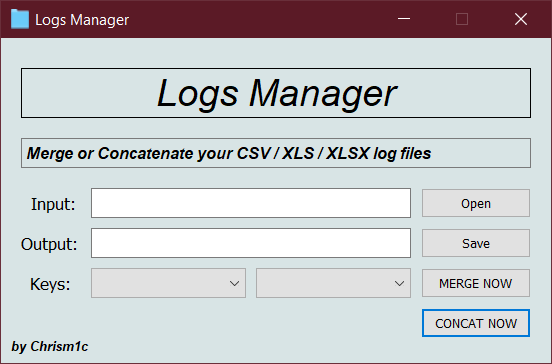
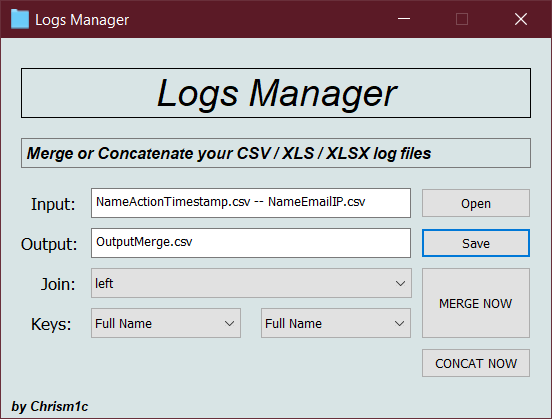
Aggiunto Multi join e batch files

diff --git a/src/gui_interface.py b/src/gui_interface.py
@@ -1,7 +1,7 @@
 from PyQt5 import QtWidgets, uic, QtCore, QtGui
 from PyQt5.QtWidgets import QFileDialog
 from src.code import concateneteLogs, mergeLogs, getHeaders, loadLogs, findExtension
-import os
+import os, sys
 
 
 class Ui(QtWidgets.QDialog):
@@ -46,6 +46,7 @@ class Ui(QtWidgets.QDialog):
 
         self.comboBox_leftKey.setToolTip('Key header from file 1')
         self.comboBox_rightKey.setToolTip('Key header from file 2')
+        self.comboBox_mergeType.setToolTip('Select the type of merge to perform')
 
         self.design.setToolTip('https://github.com/Chrism1c/Logs-Manager')
 
@@ -58,14 +59,12 @@ class Ui(QtWidgets.QDialog):
         """
         try:
             # Clear console labels
-            self.Console_merge.setText("")
-            self.Console_merge.setStyleSheet("background-color: none;")
-            self.Console_concat.setText("")
-            self.Console_concat.setStyleSheet("background-color: none;")
+            self.Console.setText("")
+            self.Console.setStyleSheet("background-color: none;")
             filenames, x = QFileDialog.getOpenFileNames(self, "Select input files (2+ Concat | Only 2 Merge)", "",
-                                                        "Cartella di lavoro Excel (*.xlsx);;Cartella di lavoro Excel "
-                                                        "97-2003 (*.xls);;CSV (Delimitato dal separatore di elenco) ("
-                                                        "*.csv)")
+                                                        "CSV (Delimitato dal separatore di elenco) (*.csv);;"
+                                                        "Cartella di lavoro Excel (*.xlsx);;"
+                                                        "Cartella di lavoro Excel 97-2003 (*.xls)")
 
             self.listof_concatFiles = filenames
             self.listof_mergeFiles = filenames
@@ -73,13 +72,16 @@ class Ui(QtWidgets.QDialog):
             ext_in = findExtension(x)
             frames = loadLogs(filenames, ext_in)
             leftColumns, rightColumns = getHeaders(frames)
+            mergeTypes = ['left', 'right', 'outer', 'inner']
             for elem in leftColumns:
                 self.comboBox_leftKey.addItem(elem)
             for elem in rightColumns:
                 self.comboBox_rightKey.addItem(elem)
+            for elem in mergeTypes:
+                self.comboBox_mergeType.addItem(elem)
             print(filenames)
         except:
-            print("***** Error in fileDialog")
+            print("***** exception in fileDialog")
             # Clear all data
             self.text_merge.setPlainText("")
             self.listof_concatFiles.clear
@@ -93,22 +95,20 @@ class Ui(QtWidgets.QDialog):
         """
 
         # Clear console labels
-        self.Console_merge.setText("")
-        self.Console_merge.setStyleSheet("background-color: none;")
-        self.Console_concat.setText("")
-        self.Console_concat.setStyleSheet("background-color: none;")
+        self.Console.setText("")
+        self.Console.setStyleSheet("background-color: none;")
 
         try:
             filename, x = QFileDialog.getSaveFileName(self, "Save file as:", "",
-                                                      "Cartella di lavoro Excel (*.xlsx);;Cartella di lavoro Excel "
-                                                      "97-2003 (*.xls);;CSV (Delimitato dal separatore di elenco) ("
-                                                      "*.csv)")
+                                                      "CSV (Delimitato dal separatore di elenco) (*.csv);;"
+                                                      "Cartella di lavoro Excel (*.xlsx);;"
+                                                      "Cartella di lavoro Excel 97-2003 (*.xls)")
 
             self.text_merge_2.setPlainText(os.path.basename(filename))
             self.output_path = filename
             print(filename)
         except:
-            print("***** Error in fileDialogSave")
+            print("***** exception in fileDialogSave")
             # Clear all data
             self.text_merge_2.setPlainText("")
             self.output_path = ""
@@ -118,7 +118,6 @@ class Ui(QtWidgets.QDialog):
         Procedure useful to control inputs value before concat operation
         :return:
         """
-
         try:
             if len(self.listof_concatFiles) > 1 and len(self.output_path) > 1:
                 ext_in = findExtension(self.listof_concatFiles[0])
@@ -127,15 +126,15 @@ class Ui(QtWidgets.QDialog):
                 concateneteLogs(self.listof_concatFiles, self.output_path, ext_in, ext_out)
 
                 print('Concat succesful !')
-                self.Console_concat.setText("Concat succesful !")
-                self.Console_concat.setStyleSheet("background-color: lightgreen;")
+                self.Console.setText("Concat succesful !")
+                self.Console.setStyleSheet("background-color: lightgreen;")
             else:
                 print('Concat failed !\n NB:\n- Select two ore more input files [OPEN] \n- Define one output file ['
                       'SAVE]')
-                self.Console_concat.setText("Concat failed !")
-                self.Console_concat.setStyleSheet("background-color: red;")
+                self.Console.setText("Concat failed !")
+                self.Console.setStyleSheet("background-color: red;")
         except:
-            print("***** Error in concatNow")
+            print("***** exception in concatNow")
 
         # Clear all data
         self.listof_concatFiles.clear()
@@ -144,6 +143,7 @@ class Ui(QtWidgets.QDialog):
         self.text_merge_2.setPlainText("")
         self.comboBox_leftKey.clear()
         self.comboBox_rightKey.clear()
+        self.comboBox_mergeType.clear()
 
     def mergeNow(self):
         """
@@ -154,23 +154,24 @@ class Ui(QtWidgets.QDialog):
             # Keys control
             lkey = self.comboBox_leftKey.currentText()
             rkey = self.comboBox_rightKey.currentText()
+            how_merge = self.comboBox_mergeType.currentText()
 
             if len(self.listof_mergeFiles) == 2 and len(self.output_path) > 0:
 
                 ext_in = findExtension(self.listof_mergeFiles[0])
                 ext_out = findExtension(self.output_path)
 
-                mergeLogs(lkey, rkey, self.listof_mergeFiles, self.output_path, ext_in, ext_out)
+                mergeLogs(how_merge, lkey, rkey, self.listof_mergeFiles, self.output_path, ext_in, ext_out)
 
                 print('Merge succesful !')
-                self.Console_merge.setText("Merge succesful !")
-                self.Console_merge.setStyleSheet("background-color: lightgreen;")
+                self.Console.setText("Merge succesful !")
+                self.Console.setStyleSheet("background-color: lightgreen;")
             else:
                 print('Merge failed !\n NB:\n- Select only two input files [OPEN] \n- Define one output file [SAVE]')
-                self.Console_merge.setText("Merge failed !")
-                self.Console_merge.setStyleSheet("background-color: red;")
+                self.Console.setText("Merge failed !")
+                self.Console.setStyleSheet("background-color: red;")
         except:
-            print("***** Error in mergeNow")
+            print("***** exception in mergeNow")
 
         # Clear all data
         self.listof_mergeFiles.clear()
@@ -179,6 +180,7 @@ class Ui(QtWidgets.QDialog):
         self.text_merge_2.setPlainText("")
         self.comboBox_leftKey.clear()
         self.comboBox_rightKey.clear()
+        self.comboBox_mergeType.clear()
 
     def path_leaf(self, listofpath):
         base = list()

diff --git a/src/code.py b/src/code.py
@@ -40,9 +40,10 @@ def saveLogs(result, output_path, ext_out):
         result.to_excel(output_path, header=True, index=False)
 
 
-def mergeLogs(lkey, rkey, file_names, output_path, ext_in, ext_out):
+def mergeLogs(how_merge, lkey, rkey, file_names, output_path, ext_in, ext_out):
     """
     Procedure useful to execute the merge between two log files using a key header name
+    :param how_merge: string object to select the type of join to perform ['left', 'right', 'outer', 'inner']
     :param lkey: string object of the selected header to use as key in the first dataframe
     :param rkey: string object of the selected header to use as key in the second dataframe
     :param file_names: list of selected file names
@@ -52,11 +53,25 @@ def mergeLogs(lkey, rkey, file_names, output_path, ext_in, ext_out):
     :return: none
     """
     frames = loadLogs(file_names, ext_in)
-    if ext_in == 'csv':
-        result = frames[0].merge(frames[1], left_on=lkey, right_on=rkey)
-    else:
-        result = frames[0].merge(frames[1], left_on=lkey, right_on=rkey)
+
+    result = pd.merge(frames[0], frames[1], how=how_merge, left_on=lkey, right_on=rkey)
     saveLogs(result, output_path, ext_out)
+
+    # TEST JOINS #
+
+    # mergeTypes = ['left', 'right', 'outer', 'inner']
+    # results = list()
+    # for how_merge in mergeTypes:
+    #     print('\nhow_merge: ', how_merge)
+    #     result = pd.merge(frames[0], frames[1], how=how_merge, left_on=lkey, right_on=rkey)
+    #     print(result)
+    #     results.append(result)
+    # print("0-1 ", results[0].equals(results[1]))
+    # print("0-2 ", results[0].equals(results[2]))
+    # print("0-3 ", results[0].equals(results[3]))
+    # print("1-2 ", results[1].equals(results[2]))
+    # print("1-3 ", results[1].equals(results[3]))
+    # print("2-3 ", results[2].equals(results[3]))
 
 
 def concateneteLogs(file_names, output_path, ext_in, ext_out):
